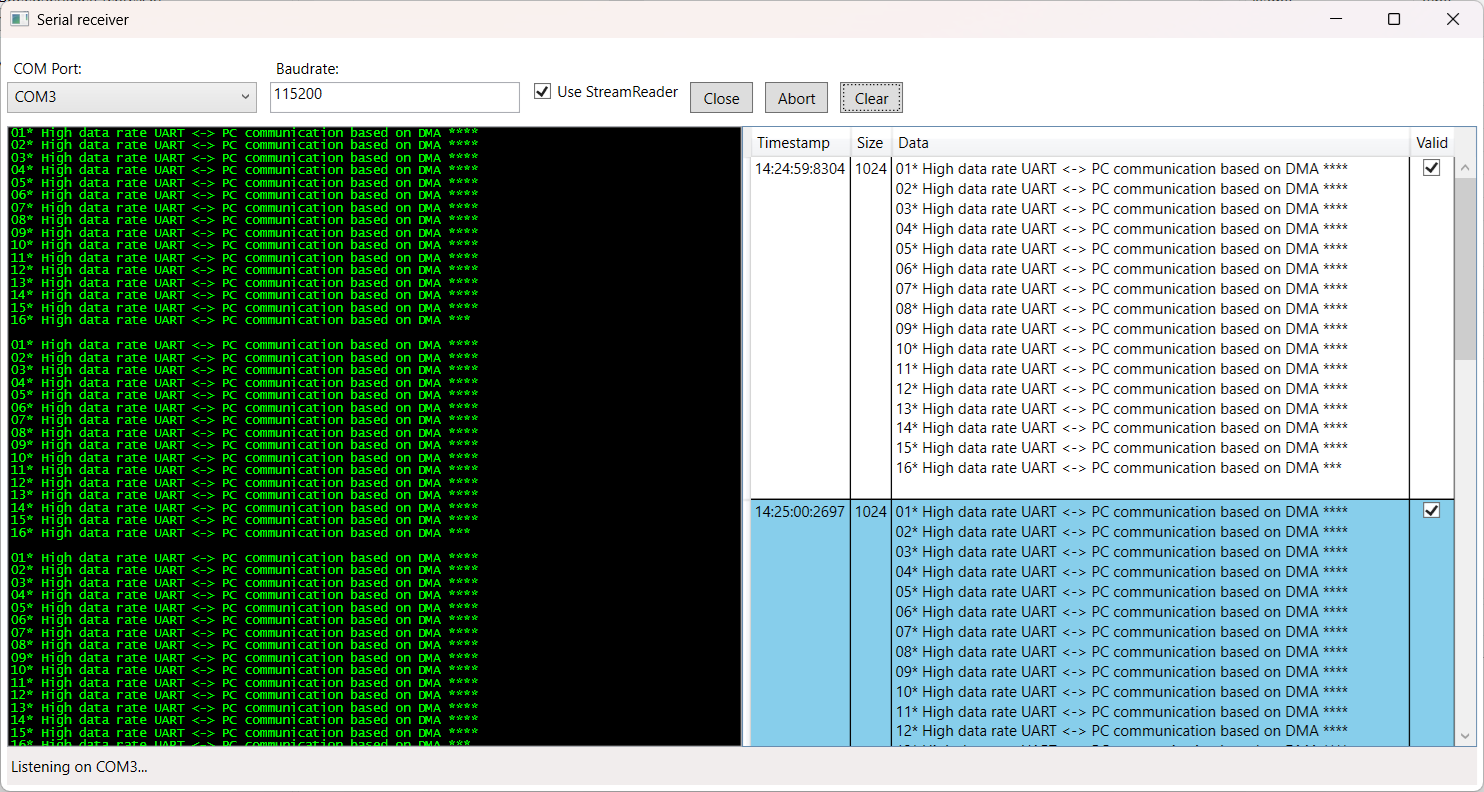
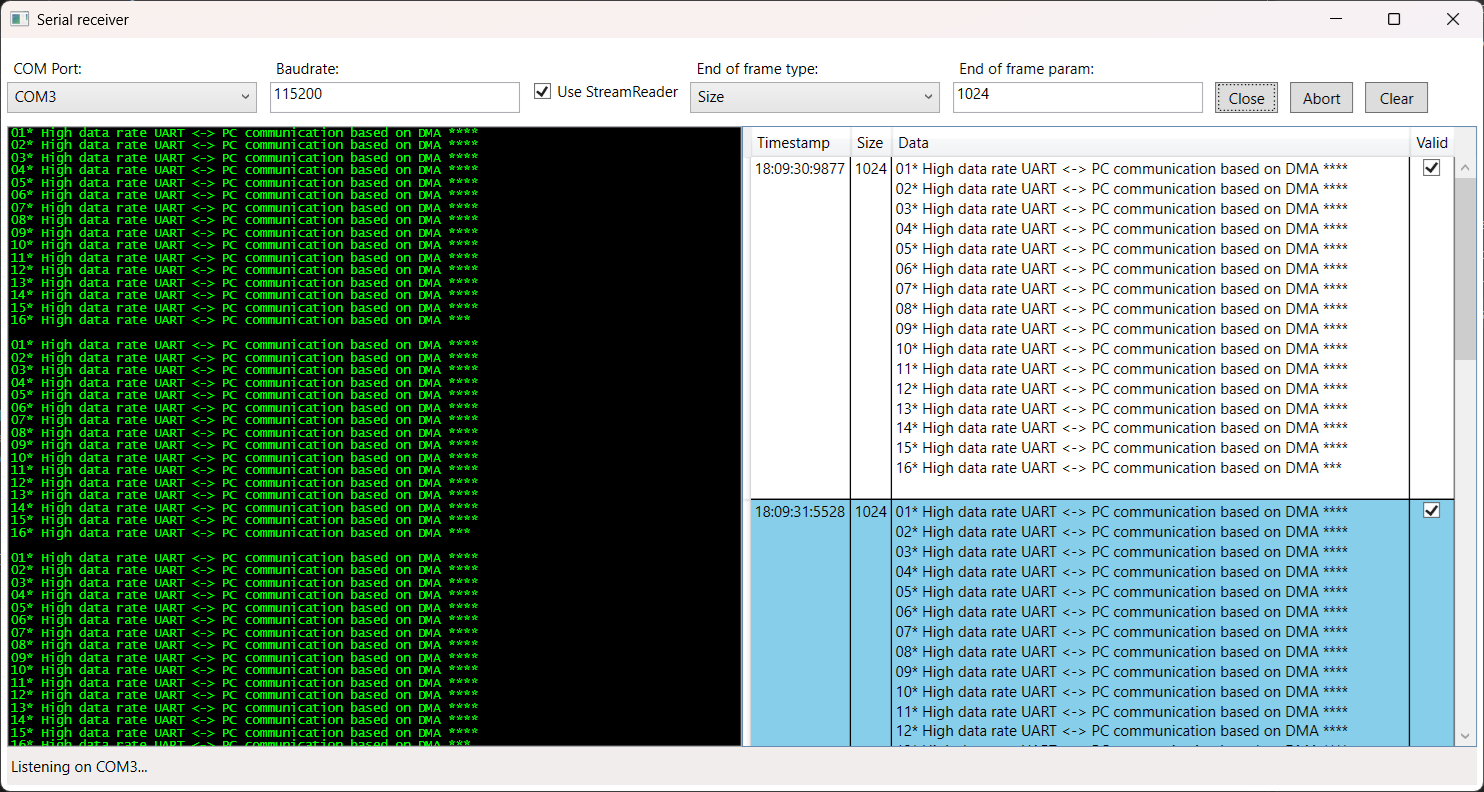
Begin to implement a selection of end of frame detection mode

diff --git a/PC/SerialReceiver/MainWindow.xaml b/PC/SerialReceiver/MainWindow.xaml
@@ -54,6 +54,15 @@
                           VerticalAlignment="Bottom"
                           Height="25"/>
             </DockPanel>
+            <DockPanel Height="55" Margin="10,0,0,0" >
+                <ComboBox Width="200" ItemsSource="{Binding EoFDetectionItemsSource, Mode=OneTime}" SelectedIndex="{Binding SelectedEoFDetectionMode}"
+                          Height="25" HorizontalAlignment="Left" DockPanel.Dock="Bottom"/>
+                <Label Content="End of frame type:" DockPanel.Dock="Bottom" Height="25" HorizontalContentAlignment="Left" Margin="0,6,0,0"/>
+            </DockPanel>
+            <DockPanel Height="55" Margin="10,0,0,0" >
+                <TextBox Width="200" Text="{Binding EoFDetectionParam}" Height="25" DockPanel.Dock="Bottom"/>
+                <Label Content="End of frame param:" DockPanel.Dock="Bottom" Height="25" Margin="0,6,0,0"/>
+            </DockPanel>
             <DockPanel Height="55" Margin="10,0,0,0" HorizontalAlignment="Left" VerticalAlignment="Bottom">
             <Button Content="{Binding IsSerialPortClosed, Converter={StaticResource BoolToOpenCloseConverter}}"
                           Command="{Binding OpenCloseCommand}"

diff --git a/PC/SerialReceiver/MainViewModel.cs b/PC/SerialReceiver/MainViewModel.cs
@@ -14,6 +14,13 @@ using System.Windows;
 namespace SerialReceiver;
     public partial class MainViewModel : ObservableRecipient, IWindowModel
     {
+    public enum EoFDetection
+    {
+        Size,
+        Time,
+        Sequence
+    }
+    public Array EoFDetectionItemsSource => Enum.GetValues(typeof(EoFDetection));
         public SettingsReader? AppSettings { get; private set; }
     private CancellationTokenSource? _cancellationTokenSource;
     [ObservableProperty]
@@ -39,6 +46,10 @@ namespace SerialReceiver;
     }
     [ObservableProperty]
     private int _baudRate = 9600;
+    [ObservableProperty]
+    private int? _selectedEoFDetectionMode = (int?)EoFDetection.Size;
+    [ObservableProperty]
+    private string? _eoFDetectionParam = string.Empty;
 
     [ObservableProperty]
     private string _statusText = "Ready";
@@ -247,26 +258,32 @@ namespace SerialReceiver;
 
     private async Task SerialPort_DataReceivedAsync()
     {
-        if (_serialPort.BytesToRead >= 1024)
+        if (SelectedEoFDetectionMode != null &&
+            ((EoFDetection)SelectedEoFDetectionMode == EoFDetection.Size))
         {
-            byte[] buffer = new byte[1024];
-            var bytesRead = _serialPort.Read(buffer, 0, 1024);
-            if (bytesRead == 1024)
+            int eoFSize = -1;
+            if (int.TryParse(EoFDetectionParam, out eoFSize) &&
+                _serialPort.BytesToRead >= eoFSize)
             {
-                // Clear the buffer to avoid reading the same data again
-                _serialPort.DiscardInBuffer();
-                await AddFrameAsync(buffer);
-            }
-            // Re-subscribe to the DataReceived event after processing
-            _serialPort.DataReceived += SerialPort_DataReceived;
+                byte[] buffer = new byte[1024];
+                var bytesRead = _serialPort.Read(buffer, 0, 1024);
+                if (bytesRead == 1024)
+                {
+                    // Clear the buffer to avoid reading the same data again
+                    _serialPort.DiscardInBuffer();
+                    await AddFrameAsync(buffer);
+                }
+                // Re-subscribe to the DataReceived event after processing
+                _serialPort.DataReceived += SerialPort_DataReceived;
 
-        }
-        else
-        {
-            int bytesToRead = _serialPort.BytesToRead;
-            byte[] buffer = new byte[bytesToRead];
-            //_serialPort.Read(buffer, 0, bytesToRead);
-            //AddFrame(buffer);
+            }
+            else
+            {
+                int bytesToRead = _serialPort.BytesToRead;
+                byte[] buffer = new byte[bytesToRead];
+                //_serialPort.Read(buffer, 0, bytesToRead);
+                //AddFrame(buffer);
+            }
         }
     }
 
@@ -311,6 +328,8 @@ namespace SerialReceiver;
                 {
                     AppSettings.Default.LastComPort = _serialPort.PortName;
                     AppSettings.Default.LastBaudRate = BaudRate;
+                    AppSettings.Default.LastEoFDetectionMode = SelectedEoFDetectionMode;
+                    AppSettings.Default.LastEoFDetectionParam = EoFDetectionParam;
                 }
             }
         }
@@ -355,6 +374,14 @@ namespace SerialReceiver;
         if (AppSettings?.Default?.LastBaudRate != null)
         {
             BaudRate = (int)AppSettings.Default.LastBaudRate;
+        }
+        if (AppSettings?.Default?.LastEoFDetectionMode != null && AppSettings.Default.LastEoFDetectionMode < Enum.GetValues(typeof(EoFDetection)).Length)
+        {
+            SelectedEoFDetectionMode = AppSettings.Default.LastEoFDetectionMode;
+        }
+        if (AppSettings?.Default?.LastEoFDetectionParam != null)
+        {
+            EoFDetectionParam = AppSettings.Default.LastEoFDetectionParam;
         }
     }
 

diff --git a/PC/SerialReceiver/SettingsReader.cs b/PC/SerialReceiver/SettingsReader.cs
@@ -2,6 +2,7 @@
 using System.Collections.Generic;
 using System.IO;
 using System.Text;
+using static SerialReceiver.MainViewModel;
 
 namespace SerialReceiver
 {
@@ -50,5 +51,7 @@ namespace SerialReceiver
     {
         public string? LastComPort { get; set; } = null;
         public int? LastBaudRate { get; set; } = null;
+        public int? LastEoFDetectionMode { get; set; } = null;
+        public string? LastEoFDetectionParam { get; set; } = null;
     }
 }
